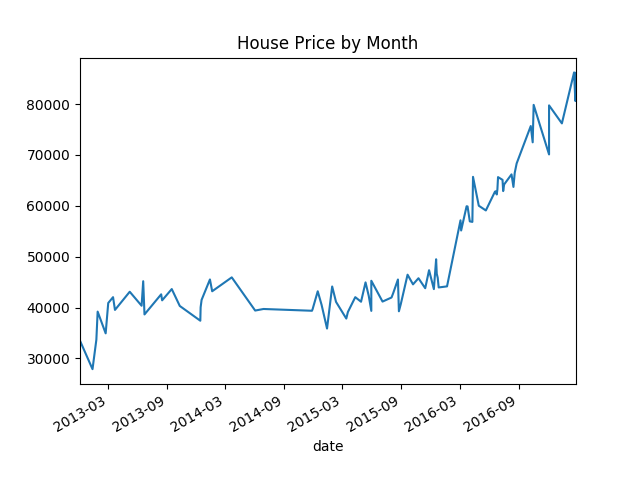
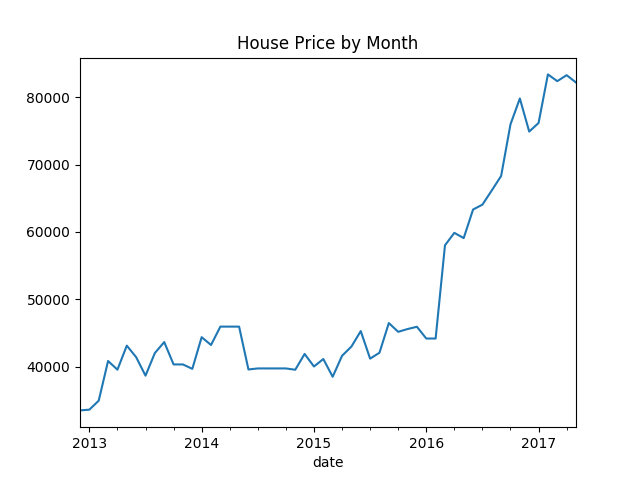
update house prices.csv

diff --git a/trends.py b/trends.py
@@ -9,7 +9,8 @@ PRICES_DATA = pd.read_csv("house_prices.csv", parse_dates=['date'])
 if __name__ == "__main__":
     house_prices = PRICES_DATA[['price','date']]
     house_prices = house_prices.set_index('date')
-    house_prices.resample('M',how=np.mean)
+    house_prices.index = pd.to_datetime(house_prices.index, format='%Y.%m.%d')
+    house_prices = house_prices.resample('M').mean()
 
     house_prices_plot = house_prices.plot(title="House Price by Month",legend=None)
 
